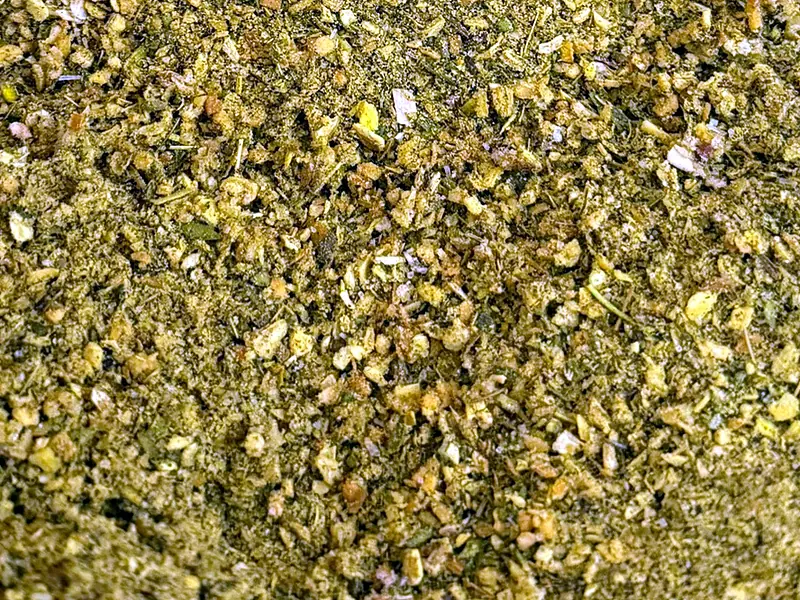
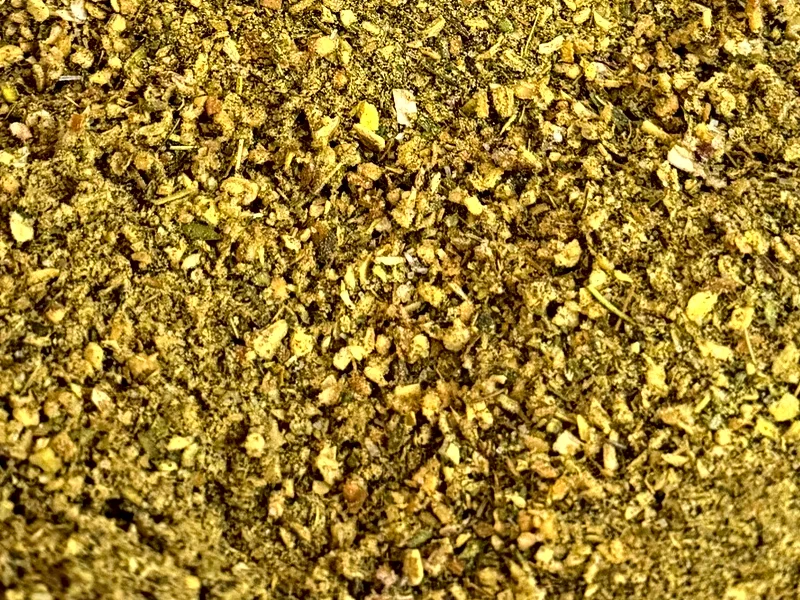
D'Lu: tempero bem bolado e tempero caipira mais amarelos, como na foto original
Refeitos a partir do original: base amarelo-dourada mantida, só um pouco
de contraste e nitidez para os pedacinhos vermelhos, roxos e verdes.

Claude-Session: https://claude.ai/code/session_01TP2isRzFhC1k2kUqYfETaa

diff --git a/dados/catalogo.js b/dados/catalogo.js
@@ -49,7 +49,7 @@ window.CATALOGO = {
       { nome: 'Tempero pega esposa', fotosT: { dlu: 'imagens/dlu/pega-esposa.webp' }, cat: 'Misturas da casa', cor: '#9c3b2c', uso: 'Mistura pronta da casa. Pergunte a composição no WhatsApp.', so: 'dlu' },
       { nome: 'Cominho em grão', fotosT: { dlu: 'imagens/dlu/cominho-grao.webp' }, cat: 'Especiarias', cor: '#8f7040', uso: 'Cominho inteiro para moer na hora ou tostar em pratos árabes e indianos.', so: 'dlu' },
       { nome: 'Tempero Delícia D’Lu', fotosT: { dlu: 'imagens/dlu/delicia-dlu.webp' }, cat: 'Misturas da casa', cor: '#b0602a', uso: 'Mistura pronta da casa. Pergunte a composição no WhatsApp.', so: 'dlu' },
-      { nome: 'Tempero caipira', fotosT: { dlu: 'imagens/dlu/tempero-caipira.webp?v=3' }, cat: 'Misturas da casa', cor: '#8a5c2c', uso: 'Mistura pronta da casa. Pergunte a composição no WhatsApp.', so: 'dlu' },
+      { nome: 'Tempero caipira', fotosT: { dlu: 'imagens/dlu/tempero-caipira.webp?v=4' }, cat: 'Misturas da casa', cor: '#8a5c2c', uso: 'Mistura pronta da casa. Pergunte a composição no WhatsApp.', so: 'dlu' },
       { nome: 'Tempero do Chefe', foto: 'imagens/dlu/tempero-do-chefe.webp', cat: 'Misturas da casa', cor: '#7d4325', uso: 'Mistura pronta da casa. Pergunte a composição no WhatsApp.', so: 'dlu' },
       { nome: 'Chimichurri defumado', fotosT: { dlu: 'imagens/dlu/chimichurri-defumado.webp' }, cat: 'Misturas da casa', cor: '#5a4a26', uso: 'O chimichurri com toque defumado, para churrasco e carnes.', so: 'dlu' },
       { nome: 'Limão natural', fotosT: { dlu: 'imagens/dlu/limao-natural.webp' }, cat: 'Pimentas e pápricas', cor: '#cfc24a', uso: 'Limão siciliano desidratado, em flocos e pó, para peixe, frango, saladas e marinadas.', so: 'dlu' },
@@ -122,7 +122,7 @@ window.CATALOGO = {
       { nome: 'Cebola em flocos', cat: 'Desidratados', cor: '#dcc69a', uso: 'Cebola desidratada em tiras (flocos) para sopas, molhos, carnes e farofas.', so: 'dlu' },
       { nome: 'Azeite de dendê', marca: 'Satélite', fotos: { dlu: 'imagens/dlu/emb-dende-satelite-900.webp' }, fotosTam: { dlu: { '200 ml': 'imagens/dlu/emb-dende-satelite-200.webp', '900 ml': 'imagens/dlu/emb-dende-satelite-900.webp' } }, cat: 'Mel, dendê e manteiga', cor: '#d9601a', uso: 'Azeite de dendê para moqueca, acarajé, vatapá e bobó.', tamanhos: ['200 ml', '900 ml'], emb: true, so: 'dlu' },
       { nome: 'Cúrcuma com fubá', marca: 'Jomil', cat: 'Especiarias', cor: '#e2a420', uso: 'Cúrcuma misturada com fubá, para dar cor a arroz, frango e caldos.', tamanhos: ['pacote 500 g'], emb: true, so: 'dlu' },
-      { nome: 'Tempero bem bolado', fotosT: { dlu: 'imagens/dlu/tempero-bem-bolado.webp?v=3' }, cat: 'Misturas da casa', cor: '#8e5030', uso: 'Mistura pronta da casa. Pergunte a composição no WhatsApp.', so: 'dlu' },
+      { nome: 'Tempero bem bolado', fotosT: { dlu: 'imagens/dlu/tempero-bem-bolado.webp?v=4' }, cat: 'Misturas da casa', cor: '#8e5030', uso: 'Mistura pronta da casa. Pergunte a composição no WhatsApp.', so: 'dlu' },
       { nome: 'Cebola em pó', marca: 'Jomil', cat: 'Desidratados', cor: '#dcc89c', uso: 'Cebola em pó para molhos, sopas, carnes e massas.', tamanhos: ['pacote 500 g'], emb: true, so: 'dlu' },
       { nome: 'Tempero família', fotosT: { dlu: 'imagens/dlu/tempero-familia.webp?v=3' }, cat: 'Misturas da casa', cor: '#9a5a2c', uso: 'Mistura pronta da casa. Pergunte a composição no WhatsApp.', so: 'dlu' },
       { nome: 'Anis-estrelado', fotosT: { dlu: 'imagens/dlu/anis-estrelado.webp?v=2' }, cat: 'Especiarias', cor: '#6a3a24', uso: 'Estrela inteira para chás, caldas, doces, quentão e pratos orientais.', so: 'dlu' },
